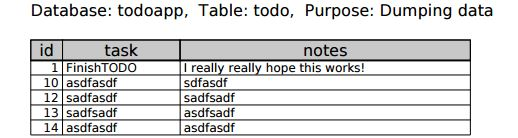
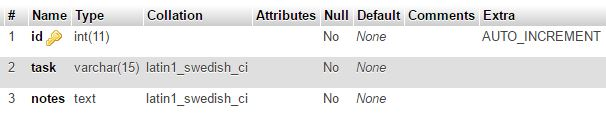
Updated database design.

diff --git a/README.md b/README.md
@@ -110,6 +110,8 @@ This is a small application that can be used as a simple to do list. You can add
 
 ## Database Design
 ![alt text](images/database_design.JPG)
+![alt text](images/database_design_1.JPG)
+![alt text](images/database_table_example.JPG)
 
 ## Class Diagram
 ![alt text](images/class_diagram.JPG)
